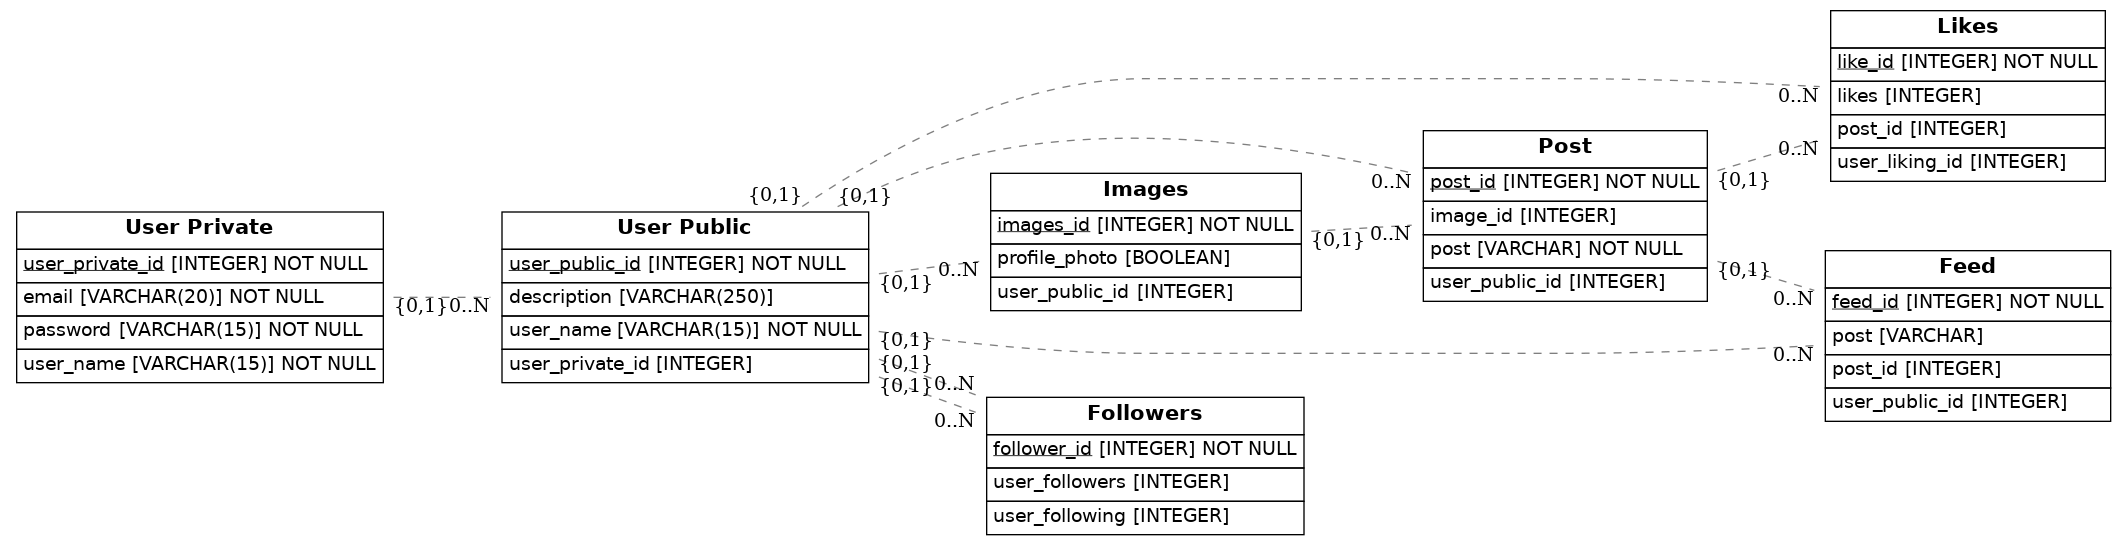
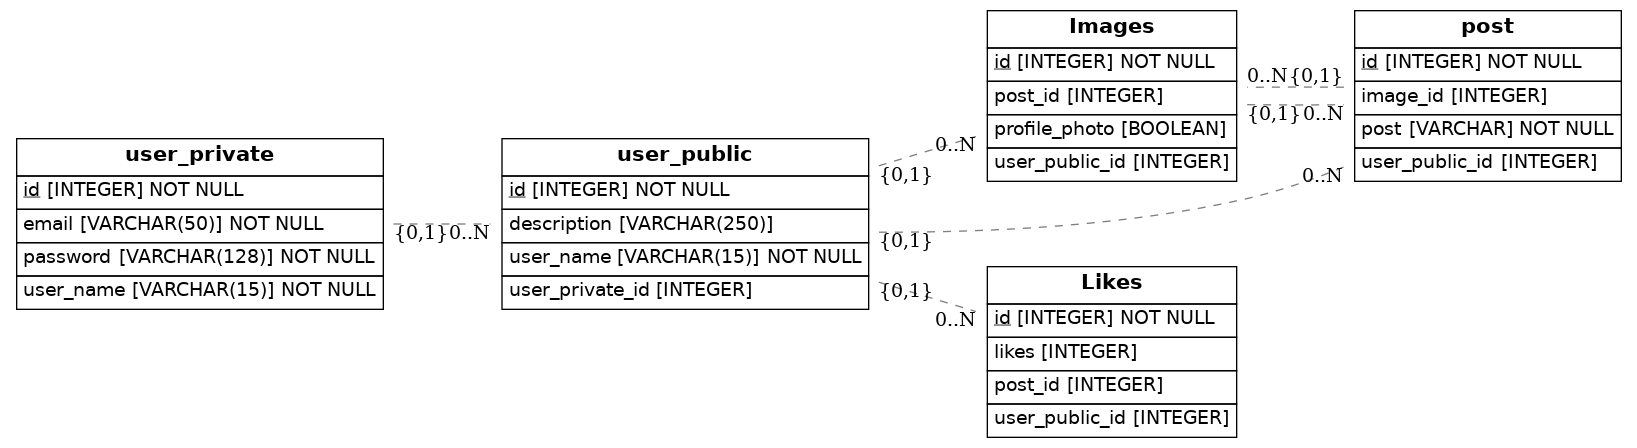
errores arreglados

Changed region(s): [[0.0, 0.0, 0.9969, 1.0], [0.5296, 0.625, 0.5919, 0.6875], [0.7477, 0.625, 0.7789, 0.6562]]

diff --git a/src/models.py b/src/models.py
@@ -7,58 +7,52 @@ from eralchemy2 import render_er
 
 Base = declarative_base()
 
+class UserPrivate(Base):
+    __tablename__ = 'user_private'
+    id = Column(Integer, primary_key=True)
+    user_name = Column(String(15), nullable=False, unique=True)
+    password = Column(String(128), nullable=False)  
+    email = Column(String(50), nullable=False, unique=True)
+    public_profile = relationship('UserPublic', back_populates='private_profile', uselist=False)
 
-class User_private(Base):
-    __tablename__='User Private'
-    user_private_id= Column(Integer, primary_key=True)
-    user_name=Column(String(15), nullable=False, unique= True)
-    password=Column(String(15), nullable=False)
-    email= Column(String(20), nullable=False, unique=True)
 
-
-class User_public (Base):
-    __tablename__='User Public'
-    user_public_id= Column(Integer, primary_key=True)
+class UserPublic (Base):
+    __tablename__='user_public'
+    id= Column(Integer, primary_key=True)
     user_name=Column(String(15), nullable=False, unique= True)
     description = Column(String(250), nullable=True, unique=True)
-    user_private_id = Column(Integer, ForeignKey(User_private.user_private_id))
-
-
+    user_private_id = Column(Integer, ForeignKey("user_private.id"))
+    images = relationship("Images", back_populates="user_public")
+    user_private = relationship("UserPrivate", back_populates="user_public")
+    post = relationship("Post", back_populates="user_public")
+    likes = relationship("Likes", back_populates="user_public")
 
 class Images (Base):
-    __tablename__='Images'
-    images_id = Column(Integer, primary_key=True)
+    __tablename__='images'
+    id = Column(Integer, primary_key=True)
     profile_photo = Column(Boolean) 
-    user_public_id=Column(Integer, ForeignKey(User_public.user_public_id))
+    user_public_id=Column(Integer, ForeignKey("user_public.id"))
+    post_id=Column(Integer, ForeignKey("post.id"))
+    user_public = relationship("UserPublic", back_populates="images")
+    post = relationship("Post", back_populates="images")
 
 class Post (Base):
-    __tablename__='Post'
-    post_id= Column(Integer, primary_key=True)
-    user_public_id=Column(Integer, ForeignKey(User_public.user_public_id))
-    image_id = Column(Integer, ForeignKey(Images.images_id)) 
-    post = Column(Enum, nullable=False)
-
+    __tablename__='post'
+    id= Column(Integer, primary_key=True)
+    user_public_id=Column(Integer, ForeignKey("user_public.id"))
+    image_id = Column(Integer, ForeignKey("Images.id")) 
+    user_public = relationship("UserPublic", back_populates="post")
+    images = relationship("Images", back_populates="post")
+    likes = relationship("Likes", back_populates="post")
 
 class Likes(Base):
-    __tablename__='Likes'
-    like_id=Column(Integer, primary_key=True)
+    __tablename__='likes'
+    id=Column(Integer, primary_key=True)
     likes= Column(Integer, nullable=True)
-    post_id = Column(Integer, ForeignKey(Post.post_id))
-    user_liking_id = Column (Integer, ForeignKey(User_public.user_public_id))
-
-class Feed (Base):
-    __tablename__='Feed'  
-    feed_id=Column(Integer, primary_key=True)
-    user_public_id= Column(Integer, ForeignKey(User_public.user_public_id))
-    post= Column(String, unique=True)
-    post_id =Column(Integer, ForeignKey(Post.post_id))
-
-class Followers (Base):
-    __tablename__='Followers'
-    follower_id= Column(Integer, primary_key=True)
-    user_followers=Column(Integer, ForeignKey(User_public.user_public_id))
-    user_following=Column(Integer, ForeignKey(User_public.user_public_id))
-
+    post_id = Column(Integer, ForeignKey("Post.id"))
+    user_public_id=Column(Integer, ForeignKey("user_public.id"))
+    user_public = relationship("UserPublic", back_populates="likes")
+    post = relationship("Post", back_populates="likes")
 
 ## Draw from SQLAlchemy base
 try:
